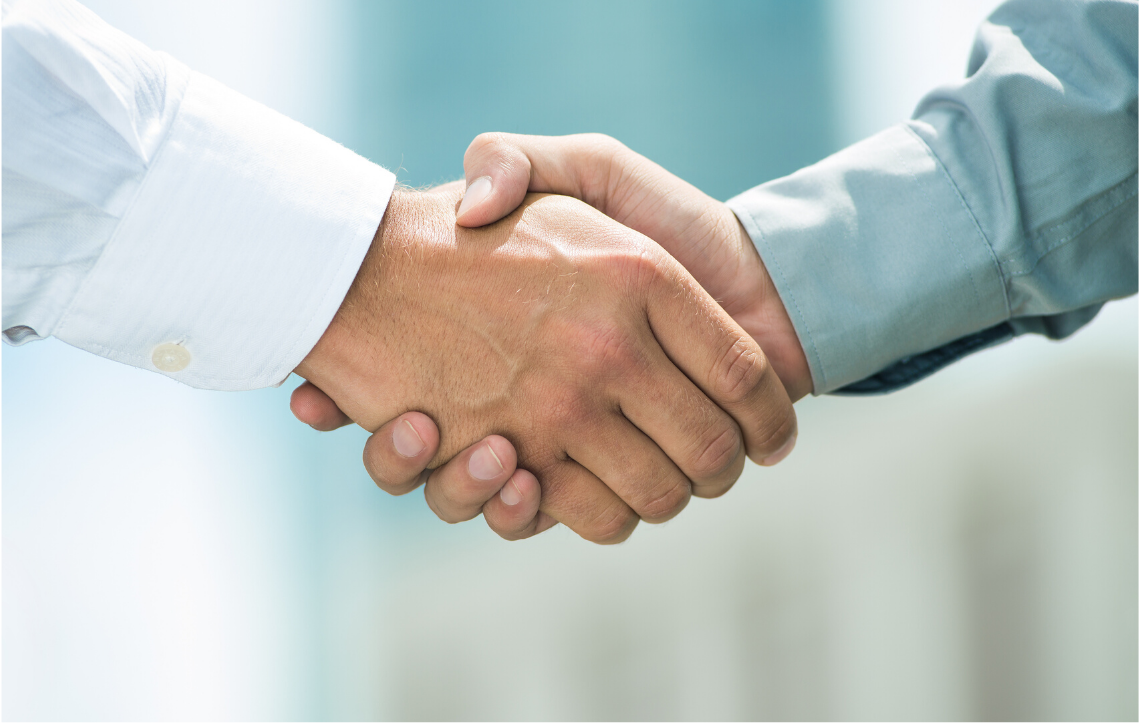
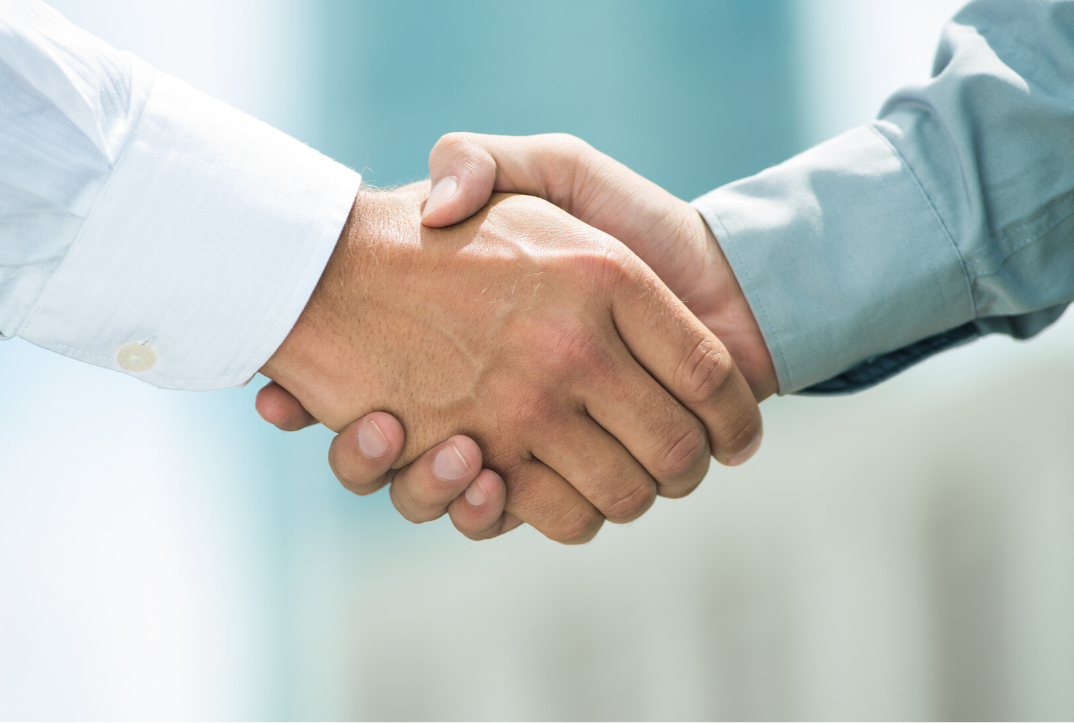
finally?

diff --git a/partnership.html b/partnership.html
@@ -108,7 +108,7 @@
 
     <div class="about block-top height-block">
       <div class="row mr-0 ml-0 wrap-container">
-        <div class="col-xs-12 col-sm-12 col-md-6 col-lg-6 lf lf-partnership info">
+        <div class="col-xs-12 col-sm-12 col-md-12 col-lg-12 lf lf-partnership info">
           <div class="col-12 title">
             <h1 class="home-title">Partnerships</h1>
           </div>
@@ -118,45 +118,60 @@
             commercialization of unique product and service offerings.
           </div>
         </div>
-        <div class="col-xs-12 col-sm-12 col-md-6 col-lg-6 rt image pr-3 pl-0">
+      </div>
+      <div class="row mr-0 ml-0 expand-content home-content wrap-container">
+        <div class="col-xs-12 col-sm-12 col-md-6 col-lg-6 partnership-middle">
+          <div class="col-xs-12 col-sm-12 col-md-12 col-lg-12 clinic-detail">
+            <div class="col-12 title">
+              <h1 class="clinic-expand">Medical Community</h1>
+            </div>
+            <div class="col-12 text home-content clinic-expand-detail">
+              <p>Hospitals, practices and clinics are partnering with Verséa on the recruitment of patients into the Verséa Patient Registry
+                one of the first of its kind launched in the United States. The registry is an IRB approved HIPPA compliant registry collecting
+                data to provide much needed answers around how patients are using Verséa products. Aggregate data will be made available for analysis,
+                publication and release into the public domain. To learn more about how to participate as a clinical site in the Verséa Patient Registry, <a href="#">click here</a></p>
+            </div>
+          </div>
+          <div class="col-xs-12 col-sm-12 col-md-12 col-lg-12 clinic-detail">
+            <div class="col-12 title">
+              <h1 class="clinic-expand">Research</h1>
+            </div>
+            <div class="col-12 text home-content clinic-expand-detail">
+              <p>Verséa is dedicated to the advancement of knowledge and science related to cannabinoids and other components of the hemp plant.
+                As such we have established partnerships with leading researchers to study the hemp plant, its components and how they interact with
+                the systems in the human body.  Through this and other partnerships our research is driving the development of a proprietary drug
+                discovery platform that allows for the rapid screening and de-risking of clinical development assets coming out of the laboratory.
+                If you are a researcher or facility interested in collaborating in the field of cannabinoid-based medicines <a href="#">click here</a></p>
+            </div>
+          </div>
+        </div>
+        <div class="col-xs-12 col-sm-12 col-md-6 col-lg-6 rt image pr-3 pl-0" style="margin-top: 30px; padding-right: 0px;">
           <img class="partnership" src="./image/partnership.png" alt="partnership"/>
         </div>
       </div>
       <div class="row mr-0 ml-0 expand-content home-content wrap-container">
         <div class="col-xs-12 col-sm-12 col-md-12 col-lg-12 clinic-detail">
           <div class="col-12 title">
-            <h1 class="clinic-expand">Medical Community</h1>
-          </div>
-          <div class="col-12 text home-content clinic-expand-detail">
-            <p>Hospitals, practices and clinics are partnering with Verséa on the recruitment of patients into the Verséa Patient Registry
-            one of the first of its kind launched in the United States. The registry is an IRB approved HIPPA compliant registry collecting
-            data to provide much needed answers around how patients are using Verséa products. Aggregate data will be made available for analysis,
-            publication and release into the public domain. To learn more about how to participate as a clinical site in the Verséa Patient Registry, <a href="#">click here</a></p>
-          </div>
-        </div>
-        <div class="col-xs-12 col-sm-12 col-md-12 col-lg-12 clinic-detail">
-          <div class="col-12 title">
-            <h1 class="clinic-expand">Research</h1>
-          </div>
-          <div class="col-12 text home-content clinic-expand-detail">
-            <p>Verséa is dedicated to the advancement of knowledge and science related to cannabinoids and other components of the hemp plant.
-            As such we have established partnerships with leading researchers to study the hemp plant, its components and how they interact with
-            the systems in the human body.  Through this and other partnerships our research is driving the development of a proprietary drug
-            discovery platform that allows for the rapid screening and de-risking of clinical development assets coming out of the laboratory.
-              If you are a researcher or facility interested in collaborating in the field of cannabinoid-based medicines <a href="#">click here</a></p>
-          </div>
-        </div>
-        <div class="col-xs-12 col-sm-12 col-md-12 col-lg-12 clinic-detail">
-          <div class="col-12 title">
             <h1 class="clinic-expand">Office Based Dispensing</h1>
           </div>
           <div class="col-12 text home-content clinic-expand-detail">
             <p>Verséa has partnered with a professional healthcare management & consulting company that specializes in the implementation of
-            all-inclusive pharmaceutical dispensing solutions.  Core competencies center on quality service and expertise in billing and collections.
+            all-inclusive pharmaceutical dispensing solutions. Core competencies center on quality service and expertise in billing and collections.
             Our partner acts as a liaison between Workers’ Compensation carriers, adjusters, case managers, employers, PBMs, and healthcare providers.
             From introducing practices to reputable pharmaceutical suppliers, to furnishing the equipment necessary to streamline in-office medication
             dispensing, decades of knowledge are being applied to meet the unique needs of each individual practice.
               To learn how to bring office based dispensing to your practice <a href="#">click here</a></p>
+          </div>
+        </div>
+        <div class="col-xs-12 col-sm-12 col-md-12 col-lg-12 clinic-detail">
+          <div class="col-12 title">
+            <h1 class="clinic-expand">Diagnostics</h1>
+          </div>
+          <div class="col-12 text home-content clinic-expand-detail">
+            <p>Verséa has strategic partnerships providing access to Bulk Drug Tests, COVID-19 Tests and Molecular Tests to hospitals,
+              private practices and Ambulatory Surgery Centers across the United States. The Verséa Task Force team of experts continues to
+              research and identify the highest quality tests that are made to the highest standards. All the testing offered is FDA Approved or EUN/EUA.
+              Verséa provides personalized customer service. You deal with one Company (Verséa) and have direct access to the latest testing. </p>
           </div>
         </div>
         <div class="col-xs-12 col-sm-12 col-md-12 col-lg-12 clinic-detail">

diff --git a/about.html b/about.html
@@ -108,7 +108,7 @@
 
     <div class="about block-top height-block">
       <div class="row mr-0 ml-0 wrap-container">
-        <div class="col-xs-12 col-sm-12 col-md-6 col-lg-6 lf lf-about info">
+        <div class="col-xs-12 col-sm-12 col-md-12 col-lg-12 lf lf-about info">
           <div class="col-12 title">
             <h1>about <span class="span-name">VERSÉA</span></h1>
           </div>
@@ -118,34 +118,37 @@
             on bringing innovative products and services that address unmet needs to the global medical marketplace.
           </div>
         </div>
-        <div class="col-xs-12 col-sm-12 col-md-6 col-lg-6 rt image pr-0 pl-0">
-          <img src="./image/about1.png" alt="about1"/>
-        </div>
       </div>
       <div class="row mr-0 ml-0 clinic-detail wrap-container">
-        <div class="col-12 title">
-          <h1 class="clinic-expand">MISSION</h1>
+        <div class="col-xs-12 col-sm-12 col-md-6 col-lg-6 pr-0 pl-0">
+          <div class="col-12 title">
+            <h1 class="clinic-expand">MISSION</h1>
+          </div>
+          <div class="col-12 text home-content clinic-expand-detail">
+            <p>Verséa is committed to be the premiere healthcare company providing healthcare professionals solutions that address unmet medical needs.
+              Our mission is to improve the well‐being of people through appropriate diagnosis
+              and by bridging the gap between classic pharmaceuticals and botanical therapeutics.</p>
+          </div>
+          <div class="col-12 title">
+            <h1 class="clinic-expand">OVERVIEW </h1>
+          </div>
+          <div class="col-12 text home-content clinic-expand-detail">
+            <p>Verséa is a US-based healthcare company focused on clinical research and novel scientific discoveries and products for the development of
+              new treatments for debilitating diseases. Within each division Verséa operates three distinct units to achieve its mission:</p>
+            <ul>
+              <li>Commercial Product & Service Portfolio</li>
+              <li>Clinical Studies</li>
+              <li>Research & Development</li>
+            </ul>
+            <p>The company was founded by a group of healthcare professionals with decades of proficiency from the segments of medical academia, pharmaceutical
+              industry and practicing physicians with expertise in pain management, disorders of the central nervous system (CNS) and mood.
+              It is with this deep bench of know-how and the desire to be a part of the solution to a significant medical crisis they have witnessed firsthand,
+              that Verséa was created.</p>
+          </div>
         </div>
-        <div class="col-12 text home-content clinic-expand-detail">
-          <p>Verséa is committed to be the premiere healthcare company providing healthcare professionals solutions that address unmet medical needs.
-            Our mission is to improve the well‐being of people through appropriate diagnosis
-            and by bridging the gap between classic pharmaceuticals and botanical therapeutics.</p>
-        </div>
-        <div class="col-12 title">
-          <h1 class="clinic-expand">OVERVIEW </h1>
-        </div>
-        <div class="col-12 text home-content clinic-expand-detail">
-          <p>Verséa is a US-based healthcare company focused on clinical research and novel scientific discoveries and products for the development of
-            new treatments for debilitating diseases. Within each division Verséa operates three distinct units to achieve its mission:</p>
-          <ul>
-            <li>Commercial Product & Service Portfolio</li>
-            <li>Clinical Studies</li>
-            <li>Research & Development</li>
-          </ul>
-          <p>The company was founded by a group of healthcare professionals with decades of proficiency from the segments of medical academia, pharmaceutical
-            industry and practicing physicians with expertise in pain management, disorders of the central nervous system (CNS) and mood.
-            It is with this deep bench of know-how and the desire to be a part of the solution to a significant medical crisis they have witnessed firsthand,
-            that Verséa was created.</p>
+
+        <div class="col-xs-12 col-sm-12 col-md-6 col-lg-6 rt image pr-0 pl-0" style="margin-top: 20px; padding-right: 0px;">
+          <img src="./image/about1.png" alt="about1"/>
         </div>
       </div>
       <div class="row mr-0 ml-0 clinic-detail wrap-container management-team">

diff --git a/css/about.css b/css/about.css
@@ -1,5 +1,5 @@
 .about .image img {
-    max-height: 350px;
+    /*max-height: 350px;*/
     max-width: 100%;
 }
 .about .image img.diagnostics {
@@ -20,7 +20,7 @@
     /*max-height: 655px;*/
 }
 .about .image img.partnership {
-    max-height: 350px;
+    /*max-height: 350px;*/
 }
 .about .info .title h1 {
     font-family: InterThin;
@@ -371,4 +371,13 @@ a.footerlink:hover, a.footerlink:focus, a.footerlink.active {
 }
 .expand-content .clinic-expand-detail ol li{
     margin-bottom: 10px;
+}
+.partnership-middle {
+    padding: 0;
+}
+.clinic-detail {
+    padding-right: 0px;
+}
+.partnership-middle .clinic-detail {
+    padding-right: 20px;
 }

diff --git a/index.html b/index.html
@@ -131,7 +131,7 @@
           <img src="./image/slider1.png" alt="Slider 1" style="width: 100%;">
           <div class="carousel-caption d-none d-md-block">
             <h1>EMBRACING SCIENCES AND PEOPLE</h1>
-            <h5>Verséa optimizes offerings to improve the well-being of all involvedVerséa optimizes offerings to improve the well-being of all involved.</h5>
+            <h5>Verséa optimizes offerings to improve the well-being of all involved.</h5>
             <h3><a href="https://versea.com/?pg=profile">Order Online</a></h3>
             <div class="line">&nbsp;</div>
           </div>
